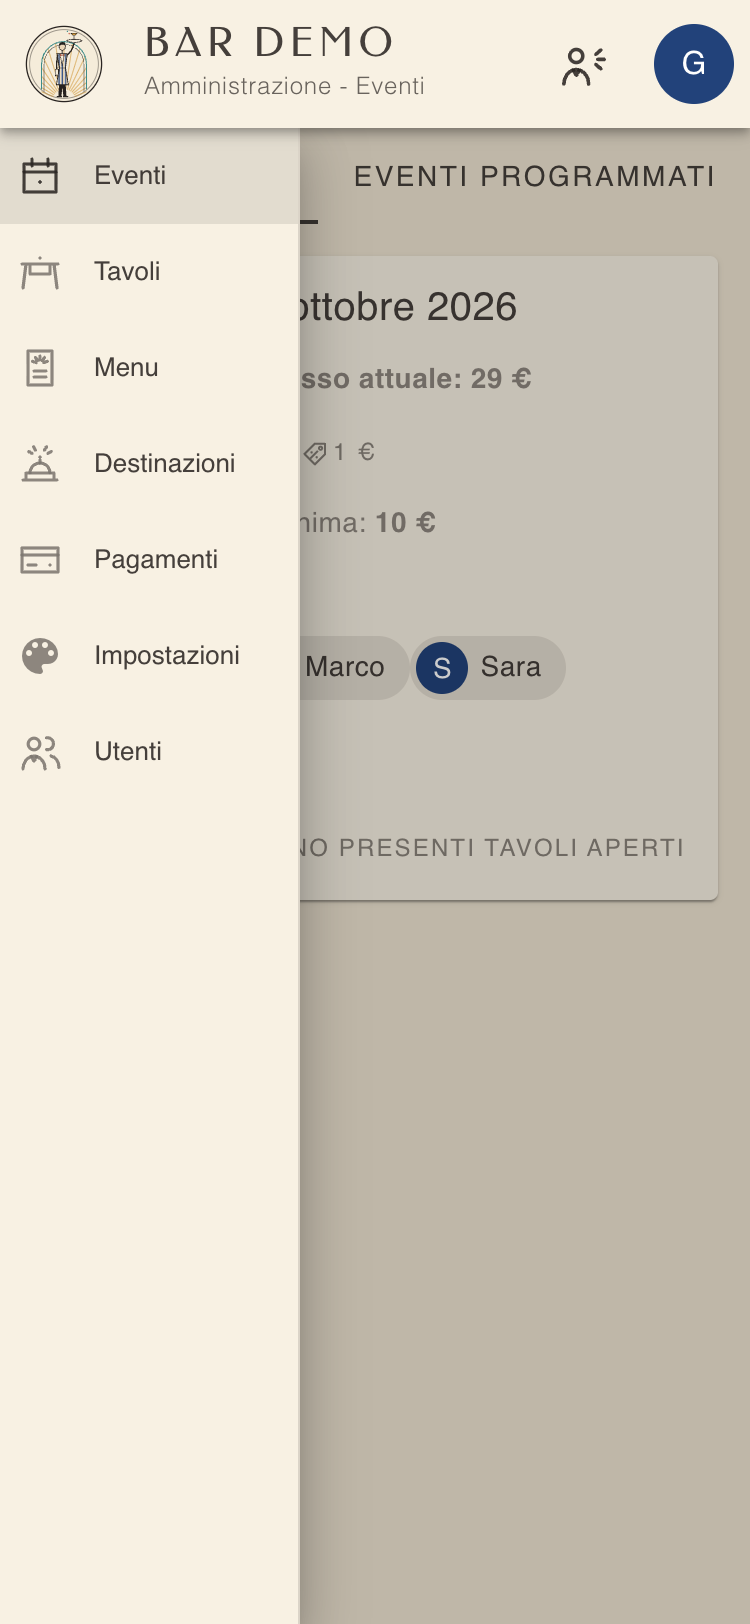
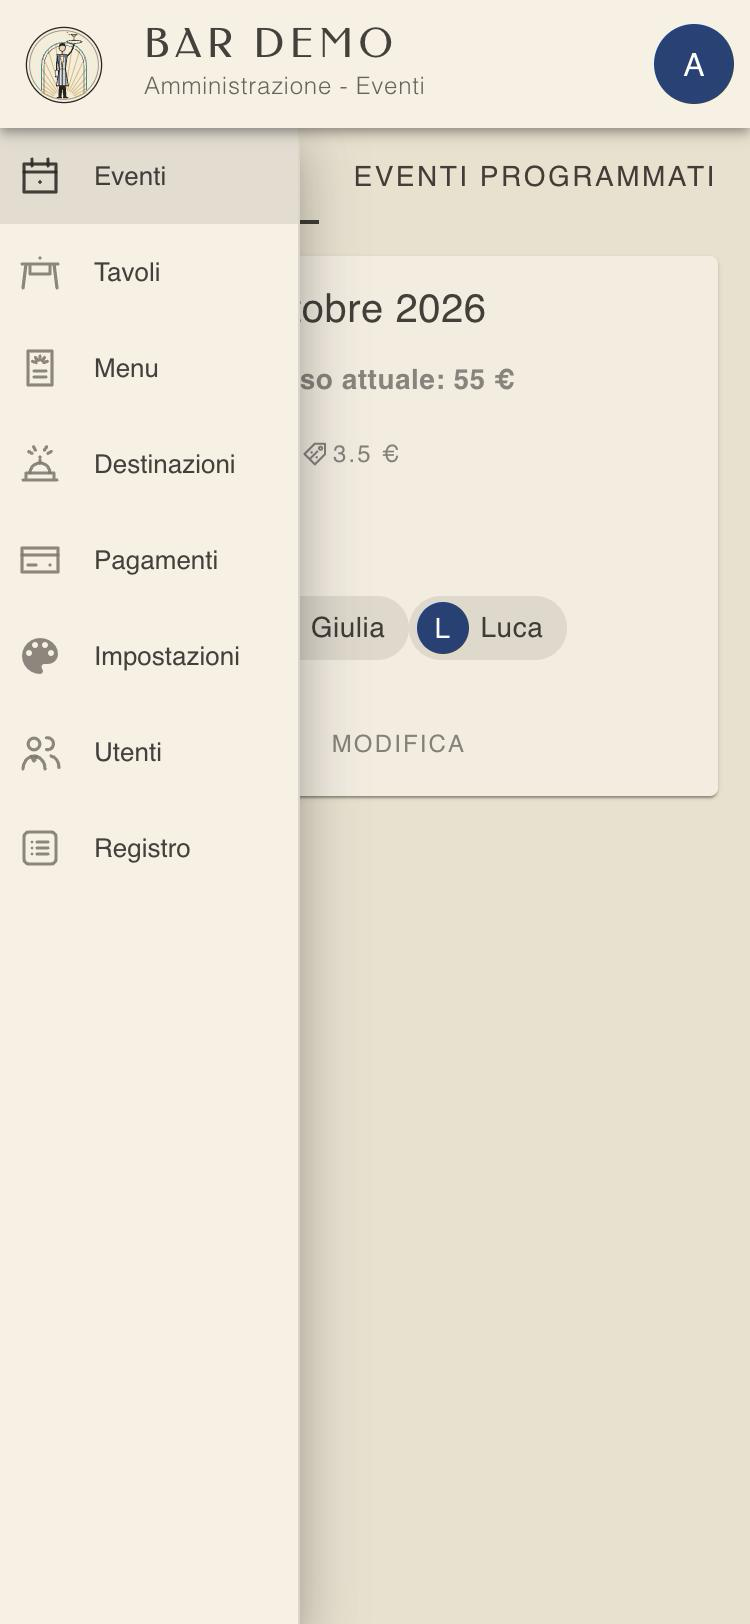
chore: guide synced with chi-comanda (activity log page, 5 October fixes)

diff --git a/src/content/guida/amministratore/registro-attivita.md b/src/content/guida/amministratore/registro-attivita.md
@@ -1,0 +1,85 @@
+# Registro attività
+
+[← Amministratore](/guida/amministratore)
+
+Il **registro attività** dice chi ha fatto cosa nel locale, e quando: ordini, pagamenti, storni, sconti, prodotti
+eliminati, modifiche al menu, alle serate e allo staff, accessi. Serve, per esempio, a capire perché la cassa di una
+serata non torna o chi ha cambiato un prezzo.
+
+Lo vede solo l'**amministratore** del locale: in *Amministrazione* tocca **Registro**.
+
+<img src="/guida/img/admin-registro.png" alt="Registro attività sul telefono" width="280">
+
+## Come si legge
+
+Ogni riga è una frase, per esempio:
+
+- *Marco ha ordinato 2 × Spritz e Nachos (18,00 €) per il tavolo 7*
+- *Giulia ha eliminato Spritz (6,00 €) dal tavolo 12*
+- *Giulia ha chiuso il tavolo 7: 24,00 € (contanti)*
+- *Anna ha modificato Spritz: prezzo 6,00 € → 6,50 €*
+
+Sotto la frase ci sono l'**ora** e la **categoria**; l'icona e il colore cambiano con la categoria. Storni, prodotti
+eliminati e pagamenti non riusciti hanno l'icona rossa, così si notano subito.
+
+Le righe sono raggruppate per **serata** (anche quando la serata va oltre la mezzanotte) e, fuori dalle serate, per
+**giorno**. Le più recenti sono in alto. Date e ore sono quelle del locale.
+
+I nomi restano quelli del momento: se un tavolo viene chiuso, un prodotto rinominato o una persona tolta dallo staff, la
+riga dice ancora quello che è successo.
+
+## I dettagli
+
+Tocca una riga per aprire i dettagli: i campi cambiati, con il valore di prima barrato e quello nuovo, oppure i
+prodotti di un ordine, il metodo e l'importo di un pagamento.
+
+<img src="/guida/img/admin-registro-dettaglio.png" alt="Dettaglio di un pagamento nel registro" width="280">
+
+Dai dettagli puoi restringere l'elenco con un tocco: **Solo Giulia** (le azioni di quella persona), **Solo questo
+tavolo**, **Solo questa serata**.
+
+## Filtri
+
+In alto c'è la ricerca: scrivi un nome, un tavolo, un prodotto o una parola della frase (per esempio *stornato*).
+
+Su tablet e computer i filtri sono sempre visibili; sul telefono tocca **FILTRI** (tra parentesi quanti ne sono attivi).
+
+<img src="/guida/img/admin-registro-filtri.png" alt="Filtri del registro" width="280">
+
+- **Serata**: una sola serata, anche già chiusa o eliminata.
+- **Persona**: chi ha fatto l'azione.
+- **Dal** / **Al**: un periodo.
+- **Categorie**: tocca una o più categorie per vedere solo quelle; toccala di nuovo per toglierla.
+- **TOGLI I FILTRI** riporta l'elenco completo.
+
+I filtri restano nell'indirizzo della pagina: puoi salvarla nei preferiti o mandare il link a un altro amministratore
+del locale, che vedrà lo stesso elenco.
+
+| Categoria | Cosa contiene |
+|---|---|
+| **Ordini** | Ordini, tavoli aperti e spostati, prodotti eliminati, prodotti segnati pronti |
+| **Cassa** | Pagamenti (registrati, avviati, confermati, annullati, non riusciti), sconti, prodotti segnati pagati o stornati, tavoli chiusi e riaperti |
+| **Menu** | Menu, prodotti (prezzo, disponibilità…), categorie |
+| **Eventi** | Serate create, modificate, avviate, chiuse, eliminate; la sala della serata |
+| **Persone** | Inviti, ruoli, blocchi, persone tolte dallo staff, inviti accettati |
+| **Impostazioni** | Nome, colori e logo, destinazioni, piantina, metodi di pagamento |
+| **Accessi** | Accessi, uscite, scelta del locale |
+
+## Esportare
+
+**ESPORTA CSV** scarica un file con le righe dell'elenco, **con gli stessi filtri** (data, ora, persona, categoria,
+attività, dettagli). Si apre con Excel, Numbers o Fogli Google.
+
+## Cosa non c'è nel registro
+
+- **Password, chiavi e codici**: mai. Per i metodi di pagamento il registro dice solo *quali* campi sono cambiati
+  (per esempio *API key*), non il loro valore.
+- **Immagini**: il cambio del logo è registrato, l'immagine no; le foto del profilo non sono registrate.
+- **Messaggi allo staff** e preferenze delle notifiche sul proprio telefono.
+- **Operazioni non riuscite**: un ordine rifiutato o un pagamento con importo sbagliato non compaiono. Un ordine
+  rimandato più volte da un telefono con la connessione instabile compare **una volta sola**.
+- **Accessi non riusciti**: li vede l'amministratore della piattaforma, non il locale.
+
+Le righe più vecchie di **24 mesi** vengono cancellate da sole.
+
+Se l'amministratore della piattaforma lavora nel tuo locale, nel registro compare con *(piattaforma)* accanto al nome.

diff --git a/src/content/guida/amministratore/README.md b/src/content/guida/amministratore/README.md
@@ -2,7 +2,8 @@
 
 [← Indice](/guida)
 
-L'amministratore prepara le serate e il locale: eventi, piantina, menu, postazioni, persone e aspetto dell'app.
+L'amministratore prepara le serate e il locale: eventi, piantina, menu, postazioni, persone e aspetto dell'app; e
+controlla nel registro chi ha fatto cosa.
 
 Dalla schermata iniziale tocca **Amministrazione**.
 
@@ -20,6 +21,7 @@ sinistra.
 | **Pagamenti** | I metodi di pagamento della cassa (funzione opzionale) | [Impostazioni e pagamenti](/guida/amministratore/impostazioni#pagamenti) |
 | **Impostazioni** | Nome, colori e logo del locale | [Impostazioni e pagamenti](/guida/amministratore/impostazioni) |
 | **Utenti** | Inviti e ruoli dello staff | [Persone](/guida/amministratore/persone) |
+| **Registro** | Chi ha fatto cosa: ordini, cassa, menu, serate, staff, accessi | [Registro attività](/guida/amministratore/registro-attivita) |
 
 ## Prima serata: da dove partire
 

diff --git a/src/content/guida/cameriere.md b/src/content/guida/cameriere.md
@@ -30,7 +30,8 @@ La piantina si aggiorna da sola quando un collega apre un tavolo («Tavoli aggio
 
 <img src="/guida/img/cameriere-prodotti.png" alt="Menu con i pulsanti matita e più" width="280">
 
-In basso vedi sempre quante bevande e quanti cibi hai aggiunto e il totale in euro.
+In basso vedi sempre quanti prodotti hai aggiunto per ogni categoria del menu (per esempio bevande e cibo, con la
+loro icona; i fuori menu a parte) e il totale in euro.
 
 ### Aggiungere una nota
 
@@ -49,7 +50,7 @@ La nota arriva al bar o in cucina insieme al prodotto, in evidenza.
 Per qualcosa che non è nel menu:
 
 1. In fondo all'elenco tocca **AGGIUNGI FUORI MENU**.
-2. Scrivi **Nome** e **Prezzo**.
+2. Scrivi **Nome** e **Prezzo** (anche con i centesimi, per esempio 4,50).
 3. Scegli la **Destinazione**: dove va preparato (es. *Bar* o *Cucina*).
 4. Tocca **CONFERMA**.
 

diff --git a/src/content/guida/domande-frequenti.md b/src/content/guida/domande-frequenti.md
@@ -59,6 +59,12 @@ Vedi [Messaggi e notifiche](/guida/messaggi-e-notifiche#se-non-arrivano). Contro
 
 Nella pagina di accesso tocca **Password dimenticata**. Vedi [Primi passi](/guida/primi-passi#password-dimenticata).
 
+### Leggo «Troppi tentativi di accesso: riprova tra … minuti»
+
+Dopo 5 accessi falliti di fila con la stessa e-mail l'app aspetta un po' prima di provare ancora (al massimo 15
+minuti): così nessuno può indovinare una password a forza di tentativi. Aspetta il tempo indicato e riprova con calma,
+oppure usa **Password dimenticata**. Un accesso riuscito azzera il conteggio.
+
 ### Il link dell'invito non funziona
 
 Il link vale 24 ore. Chiedi all'amministratore di invitarti di nuovo.

diff --git a/src/content/guida/messaggi-e-notifiche.md b/src/content/guida/messaggi-e-notifiche.md
@@ -56,4 +56,4 @@ Se usi un altro telefono, l'app ti chiede se vuoi le notifiche anche lì.
   del browser. Sbloccale dalle impostazioni del sito nel browser (di solito il lucchetto accanto all'indirizzo) e
   riattivale dal profilo.
 - Controlla che il telefono non sia in modalità *Non disturbare* o risparmio energetico.
-- Con l'app aperta sulla tua postazione, i nuovi ordini arrivano comunque con un suono.
+- Con l'app aperta sulla tua postazione, i nuovi ordini compaiono comunque nell'elenco, con la scritta «Nuovo ordine».

diff --git a/src/content/guida/barista.md b/src/content/guida/barista.md
@@ -23,7 +23,7 @@ Per ogni ordine vedi:
 
 Gli ordini completati restano in lista, sbiaditi.
 
-Quando arriva un nuovo ordine l'app suona e mostra «Nuovo ordine». Tieni il volume del dispositivo acceso.
+Quando arriva un nuovo ordine l'app mostra «Nuovo ordine» in basso e l'ordine compare nell'elenco.
 
 ## Preparare un ordine
 
